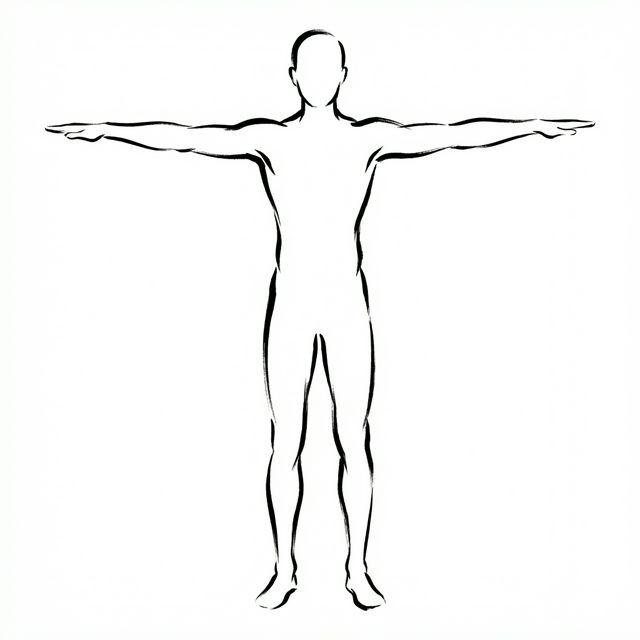
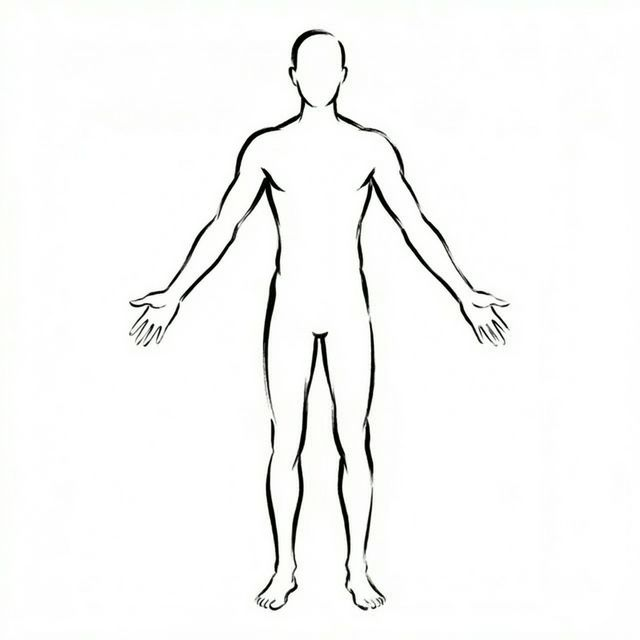
design: Perfect body silhouette alignment - 170% zoom, cover crop, overflow hidden

diff --git a/webapp/frontend/src/components/TraditionalChart.tsx b/webapp/frontend/src/components/TraditionalChart.tsx
@@ -146,7 +146,7 @@ export function YosenSection({ data }: { data: YosenData }) {
     return (
         <div style={{ background: t.card, border: `1px solid ${t.border}`, borderRadius: 2, padding: 20, transition: "all 0.3s", boxShadow: t.shadowCard }}>
             <div style={{ fontFamily: fonts.serif, fontSize: 12, fontWeight: 600, color: t.text3, letterSpacing: 6, marginBottom: 14 }}>陽占</div>
-            <div style={{ position: "relative" }}>
+            <div style={{ position: "relative", overflow: "hidden" }}>
                 {/* 人体図 背景画像 */}
                 <img
                     src="/body-silhouette.png"
@@ -155,10 +155,11 @@ export function YosenSection({ data }: { data: YosenData }) {
                         position: "absolute",
                         top: "50%",
                         left: "50%",
-                        transform: "translate(-50%, -50%)",
-                        width: "85%",
-                        height: "95%",
-                        objectFit: "contain",
+                        transform: "translate(-50%, -46%)",
+                        width: "170%",
+                        height: "120%",
+                        objectFit: "cover",
+                        objectPosition: "center 28%",
                         opacity: isDark ? 0.06 : 0.08,
                         pointerEvents: "none",
                         zIndex: 0,
